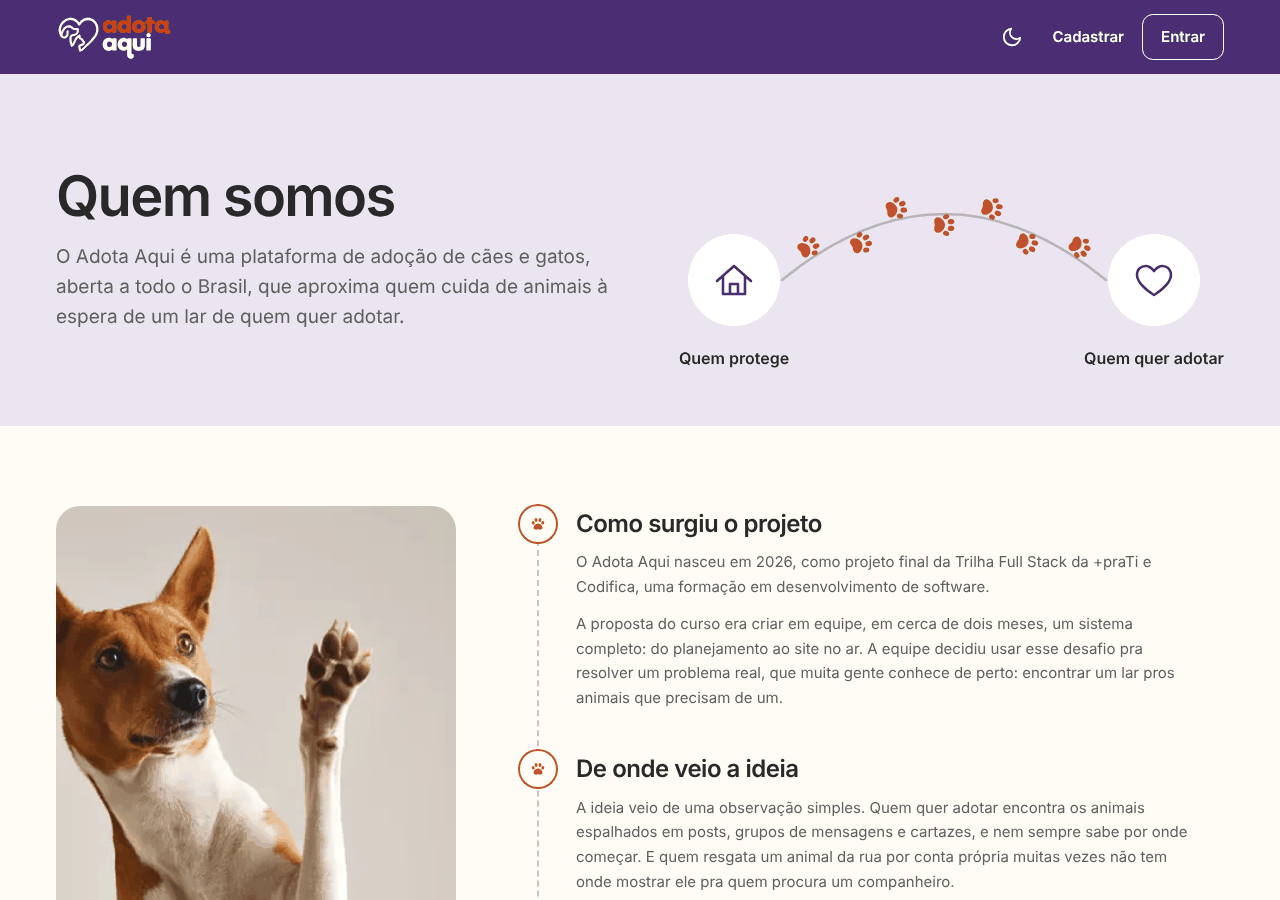
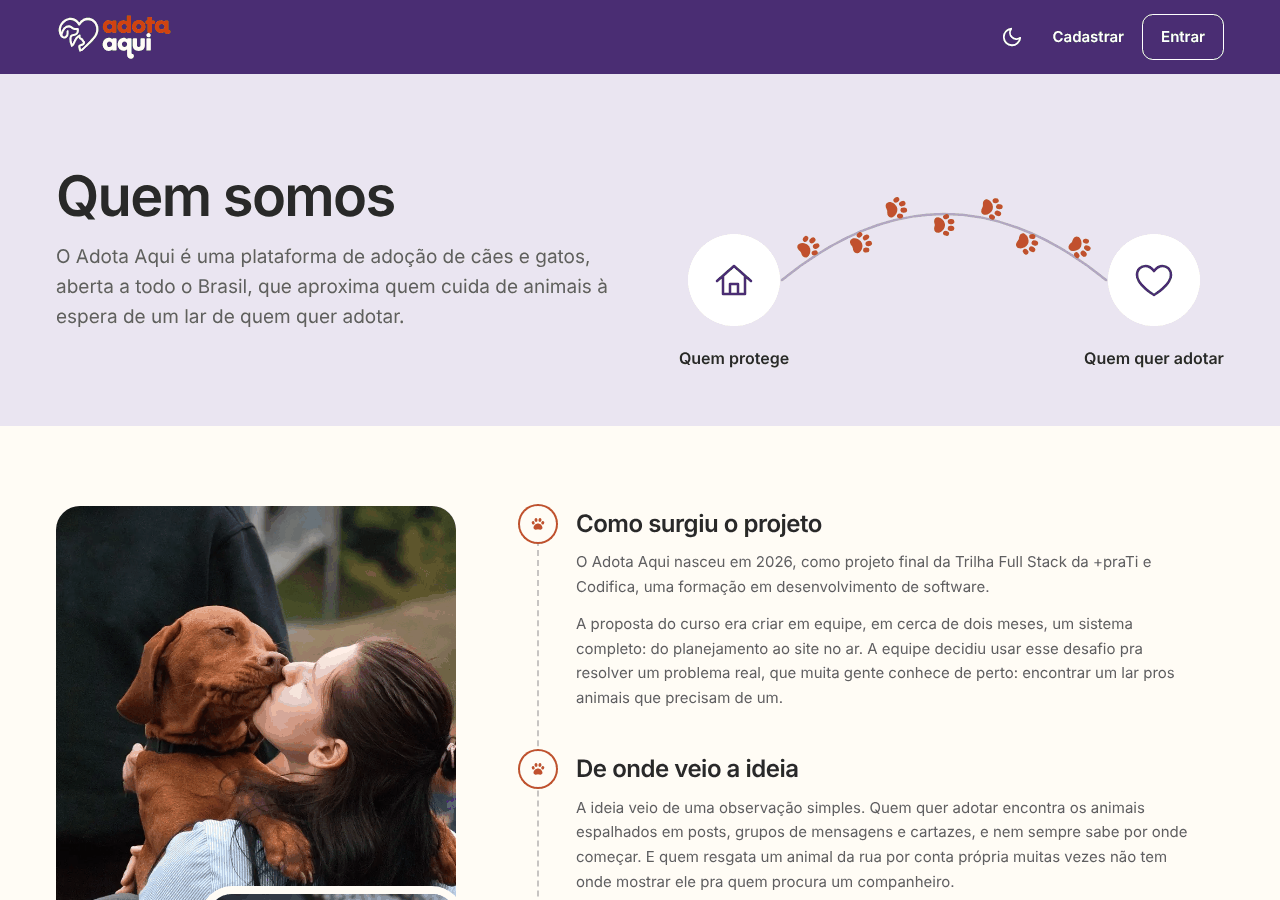
feat: fotos próprias do Quem somos, de banco de imagens gratuito
As fotos do cachorro acenando e do buldogue já apareciam em outras telas (Meus animais vazio e vitrine sem resultado), então o Quem somos ganhou fotos só dele:

- Ao lado da história, uma moça beijando o cachorro e um gato dormindo em casa. No computador ficam uma em cima da outra, com o gato encaixado no canto; no celular e no tablet, lado a lado.
- No cartão "Quer fazer parte?", um gatinho no colo. A foto preenche a coluna sem mandar na altura do cartão.
- As fotos foram recortadas, reduzidas e passadas pra webp (de 35 a 80 KB cada).

A faixa da proposta continua roxa. Funcionalidades e o print 18 atualizados.

Changed region(s): [[0.0312, 0.56, 0.375, 1.0]]

diff --git a/frontend/src/pages/QuemSomos/QuemSomos.jsx b/frontend/src/pages/QuemSomos/QuemSomos.jsx
@@ -1,5 +1,7 @@
-import fotoAceno from "../../assets/fotos/primeiro-animal.webp";
-import fotoEspiando from "../../assets/fotos/nenhum-animal.webp";
+// Fotos de banco de imagens gratuito, escolhidas pela equipe só pra esta página
+import fotoCarinho from "../../assets/fotos/quem-somos-carinho.webp";
+import fotoGatoEmCasa from "../../assets/fotos/quem-somos-gato-em-casa.webp";
+import fotoGatinhoNoColo from "../../assets/fotos/quem-somos-gatinho-no-colo.webp";
 import Botao from "../../components/Botao/Botao";
 import Pata from "../../components/Pata/Pata";
 import PonteDaAdocao from "../../components/PonteDaAdocao/PonteDaAdocao";
@@ -141,11 +143,18 @@ export default function QuemSomos() {
       </div>
 
       <div className="mx-auto mt-14 grid w-full max-w-[1440px] gap-10 px-5 md:mt-20 md:px-14 lg:grid-cols-[minmax(0,400px)_minmax(0,1fr)] lg:gap-16">
-        <figure className="lg:sticky lg:top-8 lg:self-start">
+        {/* No celular e no tablet as duas fotos ficam lado a lado.
+            No computador ficam uma em cima da outra, com o gato encaixado no canto da primeira */}
+        <figure className="grid grid-cols-2 gap-3 lg:sticky lg:top-8 lg:block lg:self-start">
           <img
-            src={fotoAceno}
+            src={fotoCarinho}
             alt=""
-            className="aspect-[4/3] w-full rounded-[24px] object-cover object-[center_30%] md:aspect-[16/9] lg:aspect-[4/5] lg:object-[28%_center]"
+            className="aspect-[4/5] w-full rounded-[24px] object-cover object-[40%_center] md:aspect-[4/3] lg:aspect-[4/5]"
+          />
+          <img
+            src={fotoGatoEmCasa}
+            alt=""
+            className="aspect-[4/5] w-full rounded-[24px] object-cover object-[45%_center] md:aspect-[4/3] lg:relative lg:-mt-28 lg:ml-auto lg:w-[62%] lg:ring-8 lg:ring-fundo-pagina"
           />
         </figure>
 
@@ -253,12 +262,15 @@ export default function QuemSomos() {
               </Botao>
             </div>
           </div>
-          {/* O buldogue espia de baixo, encostado na borda do cartão */}
-          <img
-            src={fotoEspiando}
-            alt=""
-            className="order-first h-[180px] w-full object-cover object-bottom md:order-none md:h-full md:min-h-[260px]"
-          />
+          {/* O gatinho no colo, olhando pra quem chega.
+              A foto preenche a coluna sem mandar na altura: quem manda é o texto do lado */}
+          <div className="relative order-first h-[200px] md:order-none md:h-auto md:min-h-[260px]">
+            <img
+              src={fotoGatinhoNoColo}
+              alt=""
+              className="absolute inset-0 size-full object-cover object-[50%_15%]"
+            />
+          </div>
         </div>
       </section>
     </main>

diff --git a/docs/funcionalidades.md b/docs/funcionalidades.md
@@ -552,7 +552,7 @@ Se qualquer parte falhar, nada é salvo. O animal fica travado no banco durante 
 
 1. A página fica em `/quem-somos` e no rodapé ("Quem somos"). Tem quatro partes: como surgiu o projeto, de onde veio a ideia, o que motiva a gente e o que o Adota Aqui se propõe a fazer, com o lembrete de que a decisão final é sempre de quem cuida do animal.
 2. No fim, "Quer fazer parte?" leva pra vitrine, pra página de abrigos e protetores e pro cadastro de animal.
-3. O visual: uma faixa lilás no topo com o desenho da "ponte" (uma casinha de um lado, um coração do outro e pegadas atravessando o arco), a foto do cachorro acenando ao lado da história, uma trilha pontilhada com uma patinha em cada parte da história, a proposta em cinco cartões com ícone numa faixa roxa (como o "Como funciona" da Home) e o buldogue espiando no cartão do fim.
+3. O visual: uma faixa lilás no topo com o desenho da "ponte" (uma casinha de um lado, um coração do outro e pegadas atravessando o arco), duas fotos ao lado da história (uma moça beijando o cachorro e um gato dormindo em casa), uma trilha pontilhada com uma patinha em cada parte da história, a proposta em cinco cartões com ícone numa faixa roxa (como o "Como funciona" da Home) e um gatinho no colo no cartão do fim. As fotos são de banco de imagens gratuito e só aparecem nesta página (`assets/fotos/quem-somos-*.webp`).
 4. As animações: o arco se desenha e as pegadas aparecem uma depois da outra quando a página abre, e cada parte sobe de leve quando entra na tela. Quem pediu menos movimento no sistema vê tudo parado, e o navegador que não sabe animar pela rolagem mostra as partes prontas. O desenho e as fotos são enfeite (`aria-hidden` e `alt` vazio), então o leitor de tela pula.
 5. A Home termina com a seção "Conheça o Adota Aqui", depois dos passos da adoção, com o botão "Conhecer o projeto".
 
